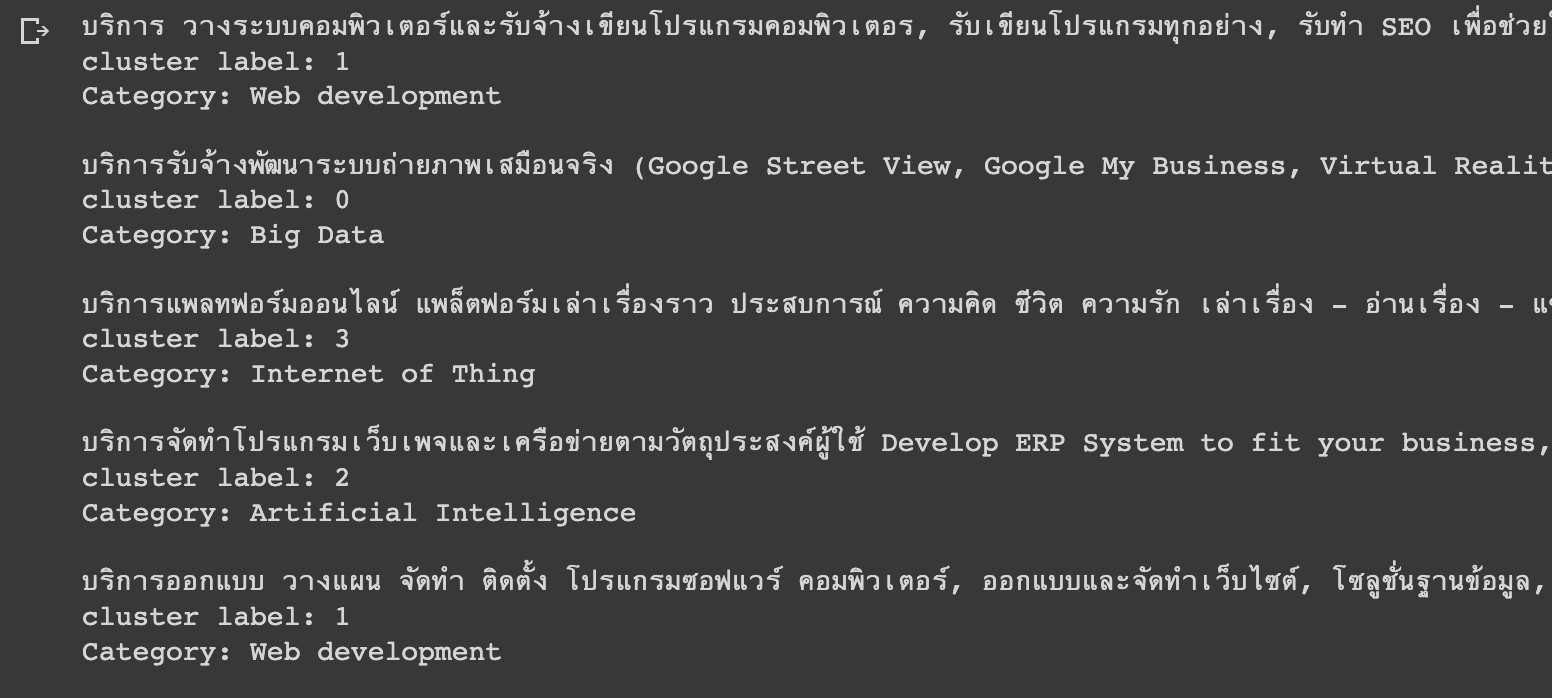
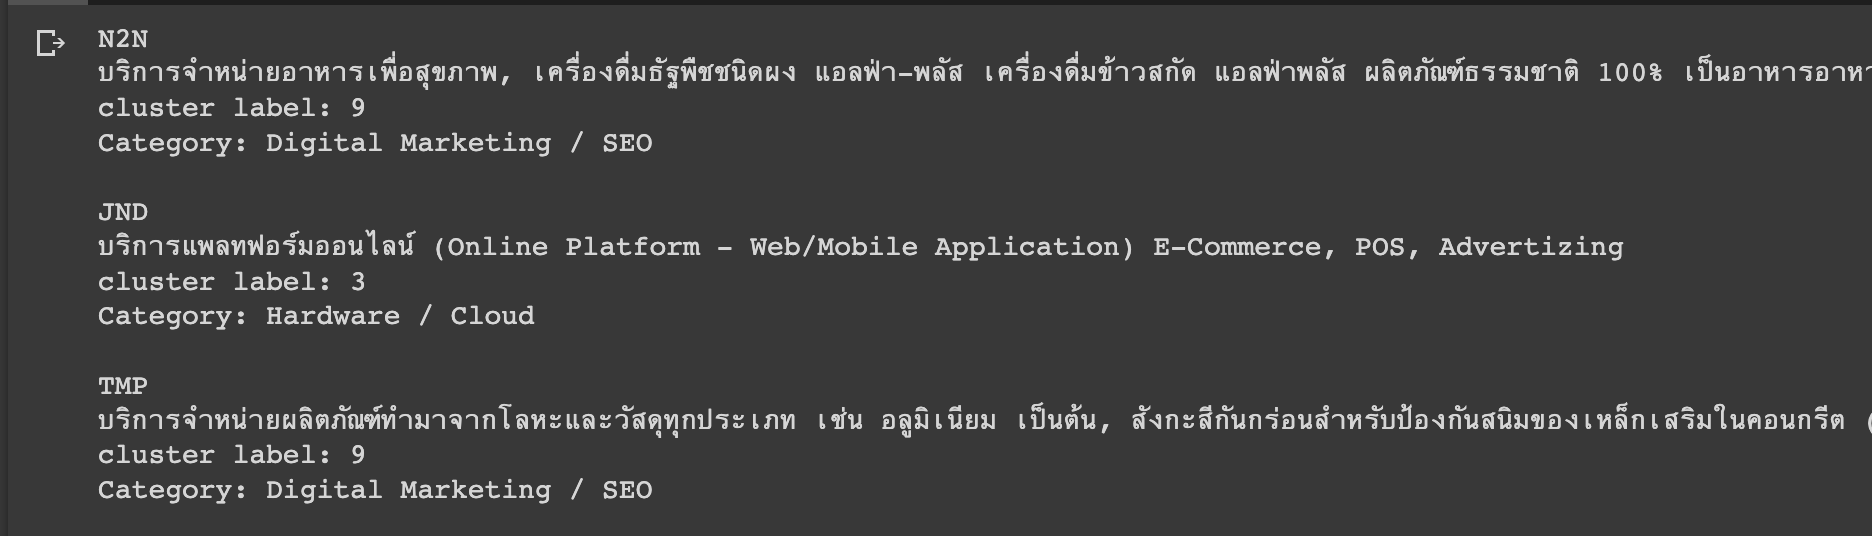
:memo: Update Tune cluster

diff --git a/README.md b/README.md
@@ -8,24 +8,32 @@
 ![Sample 1](https://img.shields.io/badge/Sample-1-red)
 ![sample1_img](./screenshort/sample_tfidf.png)
 
-## ทดลองทำ Text clustering
+## Text clustering
 
-นำผลลัพธ์การทดลองที่หาค่า TF-IDF มาทำ Cluster จำนวน 4 กลุ่ม
+นำผลลัพธ์การทดลองที่หาค่า TF-IDF มาทำ Cluster จำนวน 10 กลุ่ม
 
 ![text_clustering](./screenshort/text_clustering.png)
 
 ## ตัวอย่างแสดงประเภทธุรกิจของบริษัท
 
-> 🚨 Category ดังกล่าวเป็นเพียงตัวอย่างเท่านั้นยังไม่ได้ปรับปรุงให้ตรงกับข้อมูลมากที่สุด
+> Tune cluster ไปประมาณนึงแล้วแต่ยังไม่แม่น 100% และเพิ่มเป็น 10 clusters
+
+> - หมายถึงความแม่นยำต่ำยังมีข้อมูลหลายๆ อย่างปนอยู่
 
 **Category**
 
-| ID  | Name                    |
-| --- | ----------------------- |
-| 0   | Big data                |
-| 1   | Web development         |
-| 2   | Artificial Intelligence |
-| 3   | Internet of Thing       |
+| ID  | Name                              |
+| --- | --------------------------------- |
+| 0   | ERP Solution / Accounting         |
+| 1   | Designer / Multimedia             |
+| 2   | IT / Infrastructure               |
+| 3   | Hardware / Cloud                  |
+| 4   | Software Development              |
+| 5   | Biometrics                        |
+| 6   | \*AI / IT / VR / Digital solution |
+| 7   | Website                           |
+| 8   | Online Platform                   |
+| 9   | Digital Marketing / SEO           |
 
 ![company category](./screenshort/sample_company_category.png)
 
